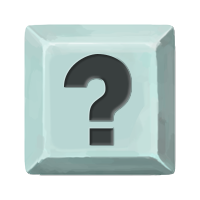
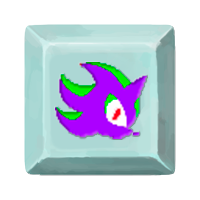
Updated art for Dusk (also, buff "Turbo")

Changed region(s): [[0.27, 0.27, 0.75, 0.75]]

diff --git a/theDefault/src/main/java/theEdgeheg/cards/colorless/TurboChaos.java b/theDefault/src/main/java/theEdgeheg/cards/colorless/TurboChaos.java
@@ -7,15 +7,16 @@ import theEdgeheg.DefaultMod;
 import theEdgeheg.cards.AbstractDynamicCard;
 import theEdgeheg.cards.EdgehegCardTags;
 import theEdgeheg.powers.ChaosEnergyPower;
+import theEdgeheg.powers.DodgePower;
 
 import static theEdgeheg.DefaultMod.makeCardPath;
 
 /**
- * (0): Gain 2(5) Chaos Energy. Exhaust.
+ * (0): Gain 2(5) Chaos Energy. Gain 1 Dodge. Exhaust.
  * (Shop Only)
  *  @author NITRO
- *  @version 1.1
- *  @since 2020-07-17
+ *  @version 1.2
+ *  @since 2020-07-18
  */
 public class TurboChaos extends AbstractDynamicCard {
 
@@ -34,7 +35,7 @@ public class TurboChaos extends AbstractDynamicCard {
 
     private static final CardRarity RARITY = CardRarity.COMMON;
     private static final CardTarget TARGET = CardTarget.SELF;
-    private static final CardType TYPE = CardType.POWER;
+    private static final CardType TYPE = CardType.SKILL;
     public static final CardColor COLOR = CardColor.COLORLESS;
 
     private static final int COST = 0;
@@ -53,6 +54,7 @@ public class TurboChaos extends AbstractDynamicCard {
     // Actions the card should do.
     @Override
     public void use(AbstractPlayer p, AbstractMonster m) {
+        addToBot(new ApplyPowerAction(p, p, new DodgePower(p)));
         addToBot(new ApplyPowerAction(p, p, new ChaosEnergyPower(p,magicNumber)));
     }
 

diff --git a/theDefault/src/main/java/theEdgeheg/relics/UltimateLifeformRelic.java b/theDefault/src/main/java/theEdgeheg/relics/UltimateLifeformRelic.java
@@ -31,8 +31,8 @@ public class UltimateLifeformRelic extends CustomRelic {
     public static final String ID = DefaultMod.makeID(UltimateLifeformRelic.class.getSimpleName());
     public static final String[] DESCRIPTIONS = CardCrawlGame.languagePack.getRelicStrings(ID).DESCRIPTIONS;
 
-    private static final Texture IMG = TextureLoader.getTexture(makeRelicPath("placeholder_relic2.png"));
-    private static final Texture OUTLINE = TextureLoader.getTexture(makeRelicOutlinePath("placeholder_relic2.png"));
+    private static final Texture IMG = TextureLoader.getTexture(makeRelicPath("dusk.png"));
+    private static final Texture OUTLINE = TextureLoader.getTexture(makeRelicOutlinePath("dusk.png"));
 
     public UltimateLifeformRelic() {
         super(ID, IMG, OUTLINE, RelicTier.STARTER, LandingSound.FLAT);
